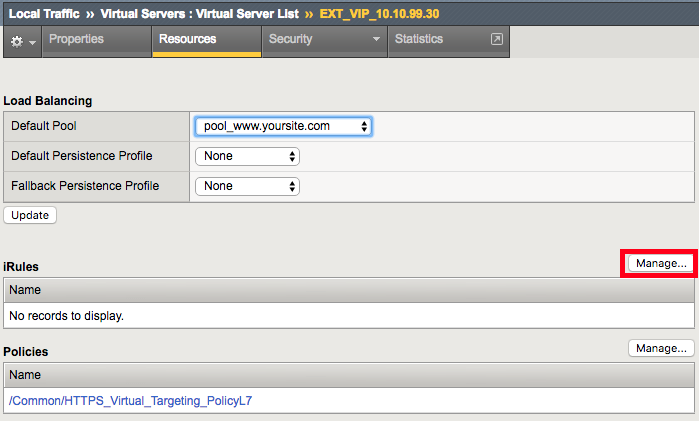
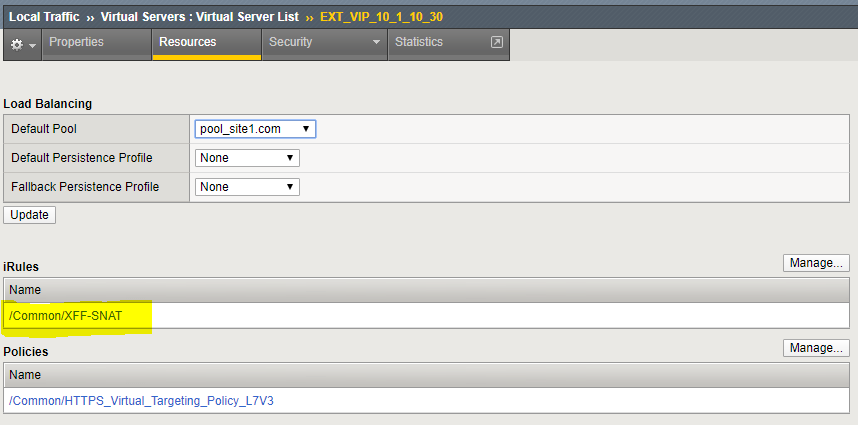
MK-1-26-20  Class 2 12:15

Changed region(s): [[0.0, 0.5867, 1.0, 0.9881], [0.0, 0.2162, 1.0, 0.5558], [0.0, 0.0, 1.0, 0.1544]]

diff --git a/docs/class2/module1/lab5.rst b/docs/class2/module1/lab5.rst
@@ -3,7 +3,7 @@ Lab 5: Provide Firewall Security Policies For CDN Enabled Applications
 
 Many enterprise sites have some or all of their content served up by Content Delivery Networks (CDN). This common use case leverages proxies to provide static content closer to the end client machines for performance. Because of this there may only be one or two IP addresses connecting to the origin website. The original IP address of the client in this case is often mapped to a common HTTP header X-Forwarded-For or some variation. In this deployment, the BIG-IP can translate the original source of the request in the XFF to the source IP address.
 
-In this case we are going to leverage iRules to modify the traffic coming from the CDN networks so we can apply a firewall policy to it. The iRule to accomplish this is already installed on your BIG-IP. We need to apply it the External Virtual Server. Here is a sample of the iRule.
+In this case we are going to leverage iRules to modify the traffic coming from the CDN networks so we can apply a firewall policy to it. The iRule to accomplish this is already installed on your BIG-IP and applied to EXT_VIP_10_1_10_30. We have been leveraging it to run the tests in previous exercises
 
 .. code-block:: tcl
 
@@ -16,44 +16,36 @@ In this case we are going to leverage iRules to modify the traffic coming from t
 
 Examminig the iRule we find that it is called when an HTTP request happens. It then checks to see if the ``X-Forwarded-For`` header exists (We wouldn't want to SNAT to a non-existent IP address) and if it does it modifies the source IP address of the request to the IP address provided in the header.
 
-Apply the iRule to the Virtual Server
+Verify that the iRule to the Virtual Server
 -------------------------------------
 
-**Navigation:** Click on the ``EXT_VIP_10.10.99.30`` virtual server
+**Navigation:** Local Traffic > Virtual Servers
+
+**Navigation:** Click on the ``EXT_VIP_10.1.10.30`` virtual server
+
+**Navigation:** Click on the Resources tab
 
 |image45|
 
-**Navigation:** Click Manage under the iRule section
+**Navigation:** Click on the Manage button
+
+this is where you assign iRules
+
+**Navigation:** Click on the Cancel button  since the iRule is already assigned
 
 |image46|
 
-**Navigation:** Once you have moved the iRule XFF-SNAT over to the Enabled
-Section, Click Finished
+
 
 Validate SNAT Function
 ----------------------
 
-To test functionality, we will need to leverage curl from the CLI to insert the X-Forwarded-For header in to the request.
+We tested functionality in prior exercises with the commands belos leverage curl from the Cygwin Terminal to insert the X-Forwarded-For header in to the request.
+
 
 .. code-block:: console
 
-   curl -k https://10.10.99.30/downloads/ -H 'Host: www.mysite.com'
-
-Expected Result Snippet:
-
-.. code-block:: html
-
-   <html>
-      <head>
-        <title>Index of /downloads</title>
-      </head>
-   <body>
-
-Validate that IP addresses sourced from China are blocked:
-
-.. code-block:: console
-
-   curl -k https://10.10.99.30/downloads/ -H 'Host: www.mysite.com' -H 'X-Forwarded-For: 1.202.2.1'
+   curl -k https://10.1.10.30 -H 'Host: site1.com' -H 'X-Forwarded-For: 1.202.2.1'
 
 **Expected Result:** The site should now be blocked and eventually timeout
 
@@ -61,9 +53,9 @@ Validate that requests sourced from the X-Forwarded-For IP address of 172.16.99.
 
 .. code-block:: console
 
-   curl -k https://10.10.99.30/api -H 'Host:www.mysite.com' -H 'X-Forwarded-For: 172.16.99.5'
+   curl -k https://10.1.10.30 -H 'Host:site1.com' -H 'X-Forwarded-For: 172.16.99.5'
 
-**Expected Result:**
+**Expected Result:** Page will work
 
 .. code-block:: console
 
@@ -79,15 +71,22 @@ Solve For TCP Issues With CDN Networks
 
 The next step is to solve for the TCP connection issue with CDN providers. While we are provided the originating client IP address, dropping or reseting the connection can be problematic for other users of the application. This solution is accomplished via AFM iRules. The iRule is already provided for you. We need to apply it to the Network Firewall downloads\_policy Policy. It still is logged as a drop or reset in the firewall logs. We allow it to be processed slightly further so that a Layer 7 response can be provided.
 
-|image47|
+**Navigation:** Security > Network Firewall > Rule Lists
 
-**Navigation:** iRule select the AFM\_403\_Downloads
+**Navigation:** Select **geo_restrict_rule_list**
+
+**Navigation:** Select  **block_AF_CN_CA**
+
+**Navigation:** Add the AFM_403_Downloads iRule to the rule list
+
+**Navigation** Click Update
+|image47|
 
 Validate that denied requests are now responded with a Layer 7 **403 Error** Page.
 
 .. code-block:: console
 
-   curl -k https://10.10.99.30/downloads -H 'Host: www.mysite.com' -H 'X-Forwarded-For: 1.202.2.1'
+   curl -k https://10.1.10.30/ -H 'Host:site1.com' -H 'X-Forwarded-For: 1.202.2.1'
 
 Expected Result: Instead of the traffic getting dropped, a 403 error
 should be returned.
@@ -103,7 +102,7 @@ should be returned.
      </body>
    </html>
 
-.. ATTENTION:: Since a TCP solution would cause disasterous consequences, the HTML error response will traverse the CDN network back only to the originating client. Using a unique error code such as 418 (I Am A Teapot) would allow you to determine that the webserver is likely not the source of the response. It would also allow the CDN network providers to track these error codes. Try to find one that has a sense of humor.
+.. ATTENTION:: Since a TCP solution could cause users to be blocked without explanation , the HTML error response will traverse the CDN network back only to the originating client. Using a unique error code such as 418 (I Am A Teapot) would allow you to determine that the webserver is likely not the source of the response. It would also allow the CDN network providers to track these error codes. Try to find one that has a sense of humor.
 
 .. NOTE:: This concludes Module 1 - Lab 5
 

diff --git a/docs/class2/module1/lab6.rst b/docs/class2/module1/lab6.rst
@@ -14,7 +14,7 @@ On the BIG-IP:
 then click Create.
 
 +---------------------------------+------------------------+
-| **Profile Name**                | demo\_http\_security   |
+| **Profile Name**                | demo_http_security     |
 +=================================+========================+
 | **Custom**                      | Checked                |
 +---------------------------------+------------------------+
@@ -27,7 +27,10 @@ then click Create.
 
 .. NOTE::  Leave all other fields using the default values.
 
+
 **Navigation:** Click Request Checks Tab.
+
+.. NOTE::  We will leave the default methods. This allows you to restrict methods used to access the Web Server
 
 +------------------+--------------+
 | **File Types**   | Select All   |
@@ -54,10 +57,13 @@ then click Create.
 Apply the HTTP security profile to the external virtual server.
 
 **Navigation:** Local Traffic > Virtual Servers > Virtual Server List >
-EXT\_VIP\_10.10.99.30
+
+**Navigation:** Select EXT_VIP_10.1.10.30
+
+**Navigation:** Select the Security  tab
 
 +-------------------------+------------------------+------------------------+
-| **Protocol Security**   | Enabled                | demo\_http\_security   |
+| **Protocol Security**   | Enabled                | demo_http_security     |
 +-------------------------+------------------------+------------------------+
 
 |image51|
@@ -69,7 +75,7 @@ EXT\_VIP\_10.10.99.30
 Open a new web browser tab, access the virtual server and log into the
 application.
 
-URL: https://www.mysite.com/dvwa
+URL: https://dvwa.com
 
 **Credentials: admin\/password**
 
@@ -99,8 +105,12 @@ Edit the demo\_http\_security HTTP security profile.
 
 **Navigation:** Security > Protocol Security > Security Profiles > HTTP
 
+**Navigation:** Select the **demo_http_security** profile
+
+**Navigation:** Select the Request Checks Tab
+
 +----------------------------+---------------------------------------------------------+
-| **HTTP Protocol Checks**   | Uncheck all except "Host header contains IP address”.   |
+| **Methods**                | Remove Post Fro the Allowed Group.                      |
 |                            |                                                         |
 |                            | Check “Block”                                           |
 +----------------------------+---------------------------------------------------------+
@@ -115,21 +125,17 @@ On Windows jumpbox
 
 Open a new web browser tab and access the virtual server.
 
-URL: https://10.10.99.30/dvwa
+URL: https://dvwa.com
+
+**Credentials: admin\/password**
+
+Select the Command Execution button in the DVWA browser Window
+
+Enter and IP address and press submit
 
 |image56|
 
-.. ATTENTION:: This application should not be accessible because the ”Host header contains IP address” and “Block” options in the HTTP security policy are selected.
-
-Open a new web browser tab and access the virtual server.
-
-URL: https://www.mysite.com/dvwa
-
-|image57|
-
-.. ATTENTION:: This application should now be accessible because we requested it through the FQDN instead of an IP address
-
-.. NOTE:: Explore some of the other settings avaialable to you in the security policy
+.. ATTENTION:: This action requires a "POST" action and will be blocked because this is not allowed. 
 
 .. NOTE:: This is the end of Module 1 - Lab 6
 
